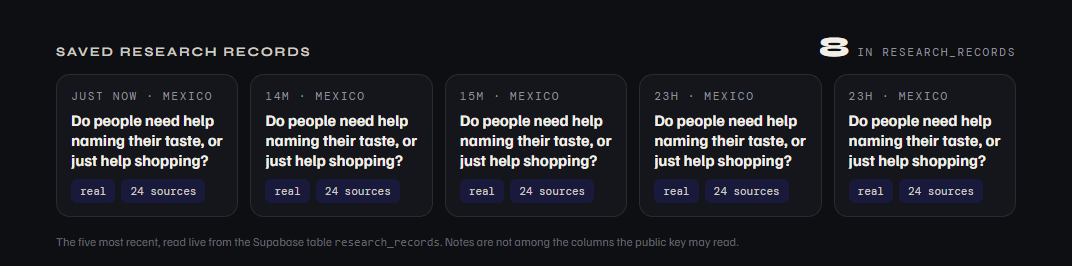
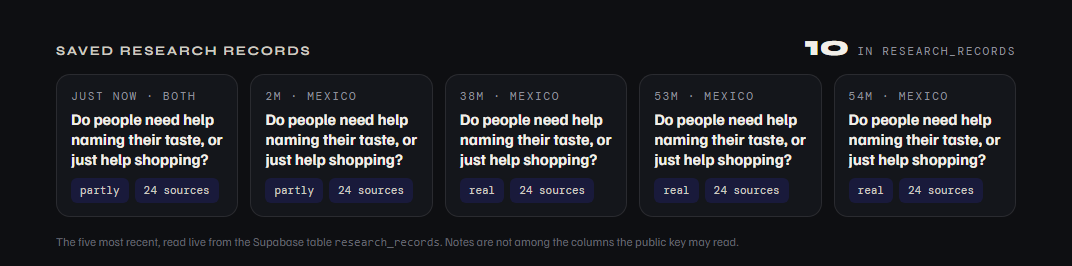
docs: preuves finales apres l entretien et le neuvieme defaut
Run final sur 7ed9a3a : cinq controles verts, T2 verifie desormais
chaque champ reellement ecrit en base. Dix lignes dans research_records,
dont les deux enregistrees a la main apres l entretien - la premiere
porte l empreinte du bug, elle est gardee telle quelle.

diff --git a/docs/week-2/test-evidence.md b/docs/week-2/test-evidence.md
@@ -1,8 +1,8 @@
 # Test Evidence — Week 2
 
 **Live page under test:** https://style-me-five.vercel.app/research
-**Code under test:** deployment `0eba0f5`
-**Final run:** 24 September 2026, 17:11 (Mexico City, UTC−6)
+**Code under test:** deployment `7ed9a3a`
+**Final run:** 24 September 2026, 17:49 (Mexico City, UTC−6)
 
 ---
 
@@ -34,7 +34,7 @@ Two checks run alongside the three: security (S1) and mobile (M1).
 | # | Test | What was checked | Actual | Pass |
 |---|---|---|---|---|
 | T1 | Filter, search, console | Every type and market chip against `SM.research.counts()`; search narrows, empties and clears; no row without a source; no uncaught error on the page | All six type counts and three market counts matched; "mexico" narrowed to 4, "zzzznothing" gave 0 rows and the empty message, clearing restored 12; rows without a source: 0; header "12 of 12 · 24 sources"; console errors: `[]` | ✅ |
-| T2 | Save a record | Intake filled, **Save clicked twice**; reload; then the You-screen widget, reached by taking the style test | "Saved to Supabase"; total 7 → 8, so the double click made one row; the saved question first in the list; widget read "8 research records saved" | ✅ |
+| T2 | Save a record | Intake filled with values that are **not** the form defaults, **Save clicked twice**, then the written row read back field by field; reload; then the You-screen widget, reached by taking the style test | "Saved to Supabase"; total 9 → 10, so the double click made one row; the stored row carried `market: both` and `verdict: partly` exactly as chosen; the saved question first in the list; widget read "10 research records saved" | ✅ |
 | T3 | Sources hold | A real HTTP request to every source cited on the page | 24 claims behind 11 distinct URLs; all 23 web claims answered 200; 0 failures. The 24th is the pending interview, which has no URL and is reported as such rather than counted as a pass | ✅ |
 | S1 | Security | The publishable key against `research_records` | allowed columns 200 · `notes` **401** · `select=*` **401** · `DELETE` **401** | ✅ |
 | M1 | Responsive | Horizontal overflow at 375, 414, 600, 768, 900 and 1280 px, and the wide table | 0 px at every width; the table scrolls inside its own box rather than stretching the page | ✅ |
@@ -75,8 +75,8 @@ and it earned its keep the first time it was used.
 
 ## Defects found this week
 
-Eight. Two in the product, two in the research, four in the test tooling — and
-the last one was both at once.
+Nine. Three in the product, two in the research, four in the test tooling — and
+two of the nine were a product bug and a blind test at the same time.
 
 ### 1 — A source that could not be checked (found in development)
 
@@ -150,6 +150,25 @@ the subtraction comes out at a comfortable zero. Measured against
 `documentElement.clientWidth` the 20 px is plain. M1 now sweeps six widths —
 375, 414, 600, 768, 900, 1280 — and reports every one. Fixed in `0eba0f5`.
 
+### 9 — The form chips were driving the table
+
+Found by filling the form by hand after the validation conversation, to record
+the new verdict: **"Both" was clicked and the database stored "mexico"**.
+
+The form's market chips and the table's filter chips both carried
+`data-rs-market`. The click handler checks the filter chips first and returns,
+so a form chip was read as a filter click: the table emptied — no competitor
+has the market "both" — and the form's own value never changed. The chip lit up
+all the same, because the repaint marks every `[data-rs-market]` it finds.
+
+The form chips are now `data-rs-form-*`.
+
+Why T2 had passed six times over it: the test filled the form with the values
+that were already the defaults — `mexico` and `real` — so a field that never
+reached the row still arrived correct. T2 now fills the form with values that
+are deliberately **not** the defaults, and reads the written row back field by
+field instead of trusting that the count went up. Fixed in `7ed9a3a`.
+
 ---
 
 ## Iteration log
@@ -164,25 +183,28 @@ the subtraction comes out at a comfortable zero. Measured against
 | 6 | Figure column widened, long figures wrap | `MX$941bn` printed over its own claim | `6a8910d` |
 | 7 | Console-error collector added, then made to actually run | The packet promised a clean console and nothing checked it | `517aedc` |
 | 8 | Risk map columns `minmax(0, 1fr)`; M1 measures against `clientWidth` and sweeps six widths | The map overflowed 20 px at 375 px, and the mobile check could not see it | `0eba0f5` |
+| 9 | Form chips renamed `data-rs-form-*`; T2 fills non-default values and reads the row back | Clicking "Both" in the form emptied the table and stored the wrong market | `7ed9a3a` |
 
 ---
 
 ## What this round taught me
 
 Week 1's lesson was that a test round finding nothing is evidence about the
-test. This week the tests found eight things — and five of them were in the tests
-themselves, not in the product. A failing test is not the same as a
+test. This week nine things were found — five of them in the tests themselves, and
+the worst one not by a test at all. A failing test is not the same as a
 broken feature, and telling them apart took real work each time: the widget was
 "missing" because the test asked Vercel for a page that does not exist, and a
 source was "dead" because the SEC does not talk to scripts that fail to
 introduce themselves.
 
-Two will stay with me. The console check that reported *"collector missing"*:
+Three will stay with me. The console check that reported *"collector missing"*:
 written the obvious way it would have returned an empty list and passed for the
-rest of the semester without looking at anything. And the mobile check that
-read zero overflow three times because it measured the page against a viewport
-that had already stretched to swallow the overflow — a green check that was
-measuring the symptom instead of the screen.
+rest of the semester without looking at anything. The mobile check that read zero overflow three
+times because it measured the page against a viewport that had already
+stretched to swallow the overflow. And the save test that passed six times on a
+form field that never reached the database, because the value it typed happened
+to be the value already there — the bug only appeared when a human chose
+something else.
 
 And the defect I care about most was found by neither the tests nor the
 browser: reading the page as a reader, where a citation pointed at a

diff --git a/docs/week-2/supabase-evidence.md b/docs/week-2/supabase-evidence.md
@@ -82,7 +82,7 @@ columns by name.
 Read back through the live API with the publishable key, at the end of the
 final test run (times converted to Mexico City, UTC−6):
 
-| saved_at | question | market | verdict | sources on the page that day |
+| saved_at | question | market | verdict | sources |
 |---|---|---|---|---|
 | 23 Sep 17:38 | Do people need help naming their taste, or just help shopping? | mexico | real | 24 |
 | 23 Sep 17:41 | (same) | mexico | real | 24 |
@@ -92,16 +92,29 @@ final test run (times converted to Mexico City, UTC−6):
 | 24 Sep 16:55 | (same) | mexico | real | 24 |
 | 24 Sep 16:56 | (same) | mexico | real | 24 |
 | 24 Sep 17:11 | (same) | mexico | real | 24 |
+| 24 Sep 17:47 | (same) | mexico | **partly** | 24 |
+| 24 Sep 17:49 | (same) | **both** | **partly** | 24 |
 
-Eight rows, one per run of the test script: five on 23 September, three more on
-24 September, as the console check and then the responsive sweep were added. The runs that fixed the test
-itself are in there too, because deleting them would be tidying the evidence. Every
-row was written by the live page's Save button; none was inserted by hand.
+Ten rows. Eight were written by runs of the test script — five on 23 September,
+three more on 24 September as the console check and the responsive sweep were
+added. The runs that fixed the test itself are in there too, because deleting
+them would be tidying the evidence.
+
+The last two were written by hand, on the live page, after the validation
+conversation: the verdict moved from `real` to `partly` because a real person
+contradicted the assumption. They also carry the fingerprint of the ninth
+defect. The 17:47 row says `mexico` although **both** was clicked — the form's
+market chips shared an attribute name with the table's filter chips, so the
+choice never reached the row. The 17:49 row, after the fix, stores `both` as
+chosen. Both rows are kept: the wrong one is the evidence.
+
+Every row was written by the page's Save button; none was inserted by hand into
+the database.
 
 Each row also carries what was on screen when it was saved: the twelve
 `competitor_ids` in view and the five `risk_ids` the map called top priority.
-The question is the same in all eight because the script asks the same one — a
-human asking a different question is what the intake is for.
+The question is the same throughout because the script asks the same one, and
+the two human records deliberately re-asked it to record the change of verdict.
 
 `source_count: 24` is the page's own count of cited claims at the moment of
 saving, which is what makes a record re-checkable: if the page later carries 30

diff --git a/docs/week-2/prompt-log.md b/docs/week-2/prompt-log.md
@@ -212,3 +212,30 @@ client for opposite reasons, and `MX$941bn` printing over its own claim.
 **What the agent did not do, and why:** the validation conversation. It needs a
 real person, and inventing one would poison the only page in this project whose
 rule is that every claim carries a source.
+
+---
+
+## Prompt 12 — The validation conversation, transcribed
+
+> *(the full transcript of the conversation, pasted in: nine questions and the
+> answers, in French)*
+
+**Files modified:** `docs/week-2/validation-conversation.md`,
+`js/research-data.js`, `docs/week-2/human-decision-note.md`,
+`docs/week-2/build-discipline-packet.md` (addendum), `js/views.js`,
+`docs/week-2/run-tests.ps1`
+**The result:** the falsifier triggered. The person named his own style in one
+sentence and asked for cheaper and faster instead — the exact sentence the
+packet said would prove the premise wrong. The write-up keeps his words in
+French with a translation, including the ones that contradict the project.
+**What changed in the product:** the competitor row "asking a friend" finally
+carries a source; two risks — cold start, and used-once-then-forgotten — are
+now backed by a real person rather than by my own reasoning; the decision note
+was rewritten around the result; the verdict on the saved research record moved
+from *real* to *partly*.
+**Error found while doing it:** saving that record by hand exposed the ninth
+defect of the week — the form's market chips shared an attribute name with the
+table's filter chips, so choosing "Both" emptied the table and stored "mexico".
+Six passing runs of T2 had never caught it, because the test filled the form
+with the values that were already the defaults.
+**Commits:** `349cd10`, `7ed9a3a`
